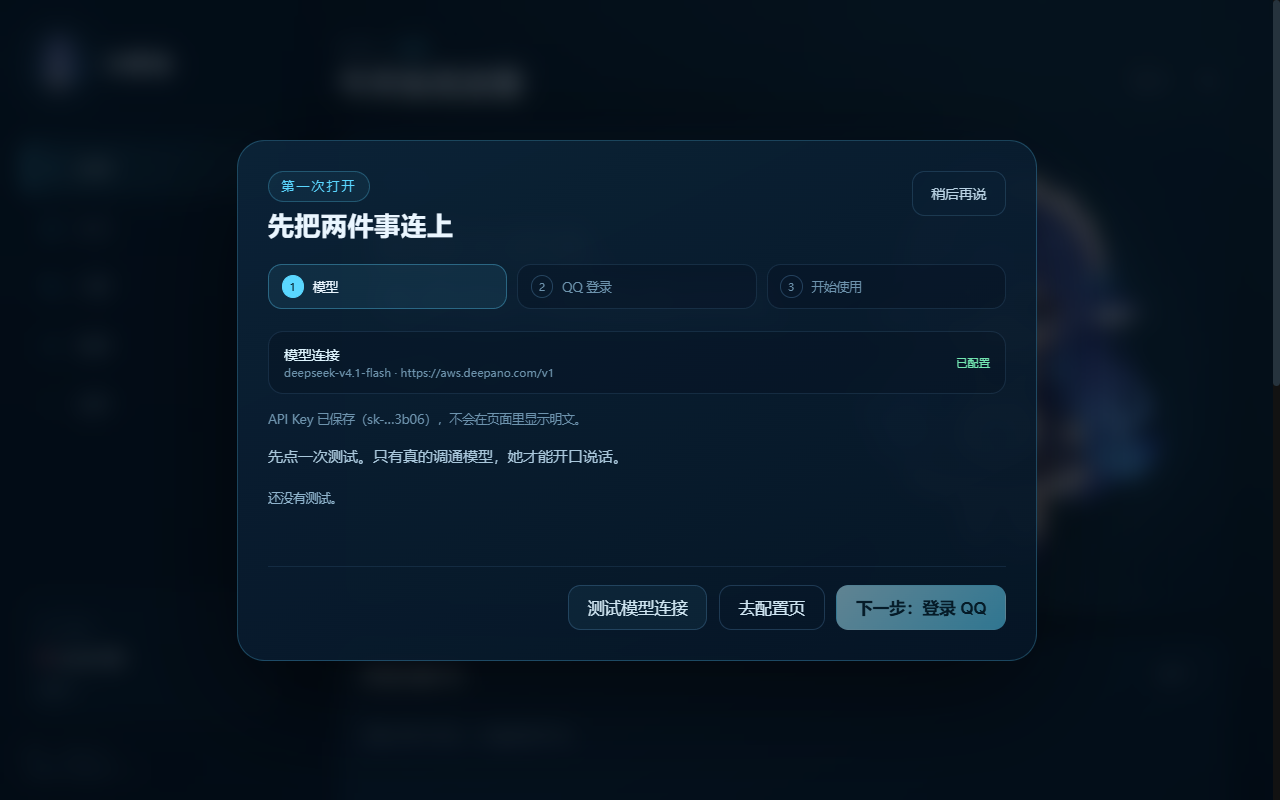
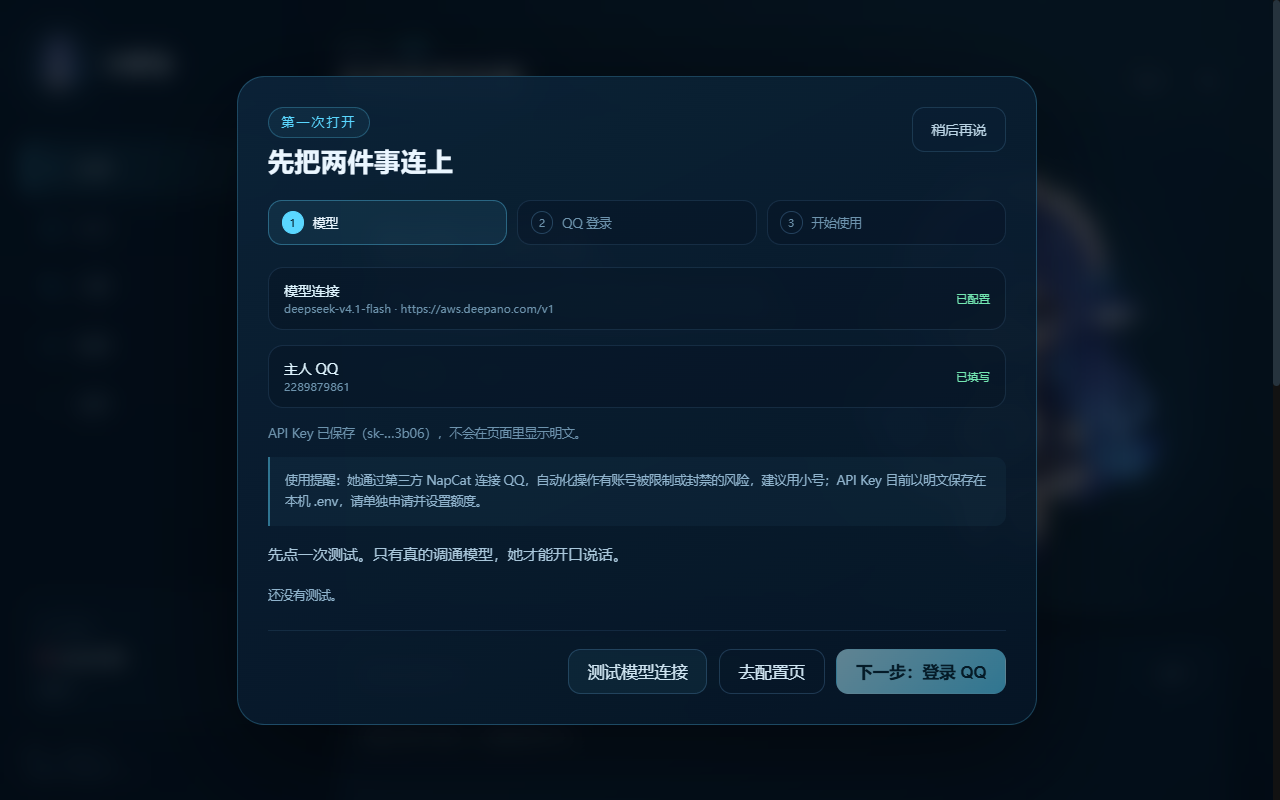
docs: 补充账号风险与第三方组件声明

diff --git a/qqbot/ui/app.css b/qqbot/ui/app.css
@@ -240,7 +240,7 @@ hr{border:0;border-top:1px dashed rgba(126,200,255,.12);margin:8px 0}
 .onb-result{min-height:18px;margin:4px 0 0;font-size:10px;line-height:1.6;color:#8fb3cc;overflow-wrap:anywhere}
 .onb-result.ok{color:var(--green)}
 .onb-result.bad{color:var(--rose)}
-.onb-hint{padding:10px 12px;border-left:2px solid rgba(90,215,255,.45);background:rgba(90,215,255,.045);border-radius:0 9px 9px 0;color:#8fb3cc;font-size:10px;line-height:1.75}
+.onb-hint{margin:0 0 12px;padding:10px 12px;border-left:2px solid rgba(90,215,255,.45);background:rgba(90,215,255,.045);border-radius:0 9px 9px 0;color:#8fb3cc;font-size:10px;line-height:1.75}
 .onboarding-actions{display:flex;justify-content:flex-end;flex-wrap:wrap;gap:9px;margin-top:18px;padding-top:14px;border-top:1px solid rgba(126,200,255,.1)}
 .onb-btn{height:36px;padding:0 15px;border-radius:10px;border:1px solid rgba(126,200,255,.2);background:rgba(90,215,255,.06);color:#cfe5f2;font:11px inherit;cursor:pointer;transition:.18s}
 .onb-btn:hover{border-color:rgba(90,215,255,.38);color:#f1fbff}

diff --git a/qqbot/ui/app.js b/qqbot/ui/app.js
@@ -545,6 +545,7 @@
     body.append(el('p', 'onb-note', model.key_set
       ? `API Key 已保存（${model.key_hint}），不会在页面里显示明文。`
       : '还没有保存 API Key，请先去配置页填写。'));
+    body.append(el('div', 'onb-hint', '使用提醒：她通过第三方 NapCat 连接 QQ，自动化操作有账号被限制或封禁的风险，建议用小号；API Key 目前以明文保存在本机 .env，请单独申请并设置额度。'));
     body.append(el('p', 'onb-lead', '先点一次测试。只有真的调通模型，她才能开口说话。'));
 
     const result = el('p', `onb-result ${onboarding.testOk ? 'ok' : onboarding.testDetail ? 'bad' : ''}`.trim());

diff --git a/tests/test_installer.py b/tests/test_installer.py
@@ -23,6 +23,8 @@ def test_installer_script_is_a_per_user_windows_installer():
     assert 'RMDir /r "$INSTDIR\\assets"' in script
     assert 'RMDir /r "$INSTDIR\\docs"' in script
     assert "IfSilent keep_data" in script
+    assert 'Delete "$INSTDIR\\SAFETY.md"' in script
+    assert 'Delete "$INSTDIR\\THIRD-PARTY-NOTICES.md"' in script
 
 
 def test_installer_build_is_reproducible():
@@ -31,6 +33,8 @@ def test_installer_build_is_reproducible():
     assert "build\\installer" in script
     assert "payload" in script
     assert "setup.env" in script
+    assert "SAFETY.md" in script
+    assert "THIRD-PARTY-NOTICES.md" in script
     assert "Dafeiyu-Setup-1.0.0.exe" in script
     assert "tools\\python" in script
     assert "NapCat-" in script

diff --git a/tests/test_onboarding.py b/tests/test_onboarding.py
@@ -195,4 +195,5 @@ def test_ui_has_first_run_onboarding():
     assert "第一次打开" in html
     assert "/api/onboarding/test-model" in js
     assert "/api/onboarding/open-napcat" in js
+    assert "账号被限制" in js
     assert ".onboarding-panel" in css

diff --git a/SAFETY.md b/SAFETY.md
@@ -1,0 +1,29 @@
+# 使用前必读
+
+大肥鱼是个人项目，不是腾讯官方产品，也不提供任何账号或数据安全保证。把它交给别人用之前，请先读完这一页。
+
+## QQ 账号风险
+
+- 大肥鱼通过第三方协议端 **NapCat / QQ NT** 登录 QQ，不是腾讯官方接口。
+- 自动登录、自动回复、主动消息、QQ 空间、抖音等操作都可能触发平台风控；**账号可能被限制、冻结或封禁**。
+- 建议只使用**小号**，不要在重要账号上运行；不要在账号里存放重要资料。
+- 主动消息、空间、抖音默认是保守配置（部分为关闭或试运行），开启前请先看控制台的审计记录。
+
+## 模型 API Key
+
+- 模型 Key 由使用者自己申请和付费；调用量、账单、内容合规由使用者与模型服务商处理。
+- 当前版本把 Key 保存在本机安装目录的 `.env` 里，**是明文**。控制台只写不读，但能读到安装目录的人就能读到 Key。
+- 建议给这个项目单独申请 Key、设置额度，不要和别的项目共用；不要把安装目录或 `.env` 打包发给别人。
+- 如果 Key 泄露，立即去模型服务商后台吊销并换新。
+
+## 本地数据
+
+聊天记录、记忆、图片、日志都在安装目录的 `data/` 和 `logs/` 下。卸载时选择“否”会保留这些数据；要彻底清除，请卸载后手动删除整个安装目录。导出聊天前请确认接收方是否可信。
+
+## 第三方组件
+
+Python、NapCat、QQ NT、WebView2 等组件的版权和许可见 [THIRD-PARTY-NOTICES.md](THIRD-PARTY-NOTICES.md)。本项目代码采用 MIT 许可，第三方组件不自动适用 MIT。
+
+## 没有担保
+
+本项目按“现状”提供，不承诺不中断、不丢数据、不被封号。是否使用、如何使用，由使用者自行判断并承担风险。

diff --git a/THIRD-PARTY-NOTICES.md b/THIRD-PARTY-NOTICES.md
@@ -1,0 +1,24 @@
+# 第三方组件与素材声明
+
+大肥鱼本体的代码和文档采用 MIT 许可（见 `LICENSE`）。安装包同时携带以下运行环境或第三方内容，它们不自动适用本项目的 MIT 许可；具体条款以各自发行包或上游项目为准。
+
+## 运行时与协议端
+
+- **Python 3.12** — Python Software Foundation License；版权归 Python Software Foundation。
+  项目地址：https://www.python.org/
+- **NapCatQQ** — 第三方 QQ 协议端；本项目只做调用和打包，与 NapCat 作者无隶属关系。
+  上游项目：https://github.com/NapNeko/NapCatQQ
+- **QQ NT 客户端文件** — 由 NapCat 的分发方式带入，版权归腾讯及相关权利人；本项目不主张对这些文件的权利。使用前请自行确认你所在地区的授权与风险。
+- **Microsoft Edge WebView2 SDK / Runtime** — Microsoft 许可；版权归 Microsoft Corporation。
+  项目地址：https://developer.microsoft.com/microsoft-edge/webview2/
+- **.NET Framework / Windows 系统组件** — Microsoft 许可；版权归 Microsoft Corporation。
+
+## 形象与素材
+
+- **大肥鱼形象**：YunYueSama / `codex-deepseek-pet`，按《大肥鱼项目署名许可 1.0》使用；署名信息保留在窗口页脚和本文件中。
+- **表情库**：部分素材来自公开 CDN 或社区二创，仅用于私人聊天；如你是权利人并希望移除，请联系项目维护者。
+- 其余图片、字体和图标如无特别说明，版权归各自作者。
+
+## 说明
+
+这份文件是组件清单，不是法律意见。对外分发安装包前，请根据实际分发范围和目标地区，核对 NapCat、QQ NT 客户端、模型服务和素材的授权；如果无法确认，请不要公开分发携带这些组件的安装包。

diff --git a/docs/PROGRESS.md b/docs/PROGRESS.md
@@ -80,6 +80,16 @@
 测试新增 9 条（模型测试、配置发现、扫码页、启动、完成标记、HTTP 鉴权、UI 占位），全量 **1031 通过**。
 引导窗口截图见 `docs/onboarding.png`。
 
+### 发布前风险声明（2026-11-08）
+
+准备把安装包发给别人之前，补上两页必须看的说明：
+
+- `SAFETY.md`：QQ 账号可能被限制/封禁、建议用小号；模型 Key 目前明文存在 `.env`、费用和泄露风险由使用者承担；卸载保留数据的边界；
+- `THIRD-PARTY-NOTICES.md`：Python、NapCat、QQ NT、WebView2 和形象的来源/授权提示；明确本项目 MIT 不自动覆盖第三方组件；
+- 安装包把两页放进根目录，卸载时一起清理；安装向导和首次引导都显示“建议用小号”的提醒。
+
+这一步不改协议和聊天逻辑，测试仍为 **1031 通过**。
+
 ---
 
 ## 里程碑

diff --git a/README.md b/README.md
@@ -10,6 +10,14 @@
 - 人格卡：[docs/persona/dafeiyu.md](docs/persona/dafeiyu.md)
 - 原生控制台设计：[docs/native-ui.md](docs/native-ui.md)
 - 交互演示（无后端）：[demo/index.html](demo/index.html)
+- 使用前必读：[SAFETY.md](SAFETY.md)
+- 第三方组件与素材：[THIRD-PARTY-NOTICES.md](THIRD-PARTY-NOTICES.md)
+
+## 使用前必读
+
+大肥鱼通过第三方 NapCat / QQ NT 连接 QQ，不是腾讯官方接口；自动回复、主动消息、空间和抖音操作都有账号被限制或封禁的风险。建议只用小号，并先看 [SAFETY.md](SAFETY.md)。
+
+模型 API Key 目前以明文保存在本机 `.env`，请使用单独的 Key、设置额度，不要把安装目录或 `.env` 发给别人。
 
 ## 当前状态：M1
 

diff --git a/installer/README.md b/installer/README.md
@@ -1,5 +1,7 @@
 # 安装版打包说明
 
+对外分发前先读 [SAFETY.md](../SAFETY.md) 和 [THIRD-PARTY-NOTICES.md](../THIRD-PARTY-NOTICES.md)：安装包会携带 NapCat / QQ NT 和第三方面板运行时，账号风险与授权范围需要由分发者自行确认。
+
 ## 构建
 
 NSIS 编译器放在 `tools\nsis\makensis.exe`，该目录不入库。构建脚本会把运行所需文件
